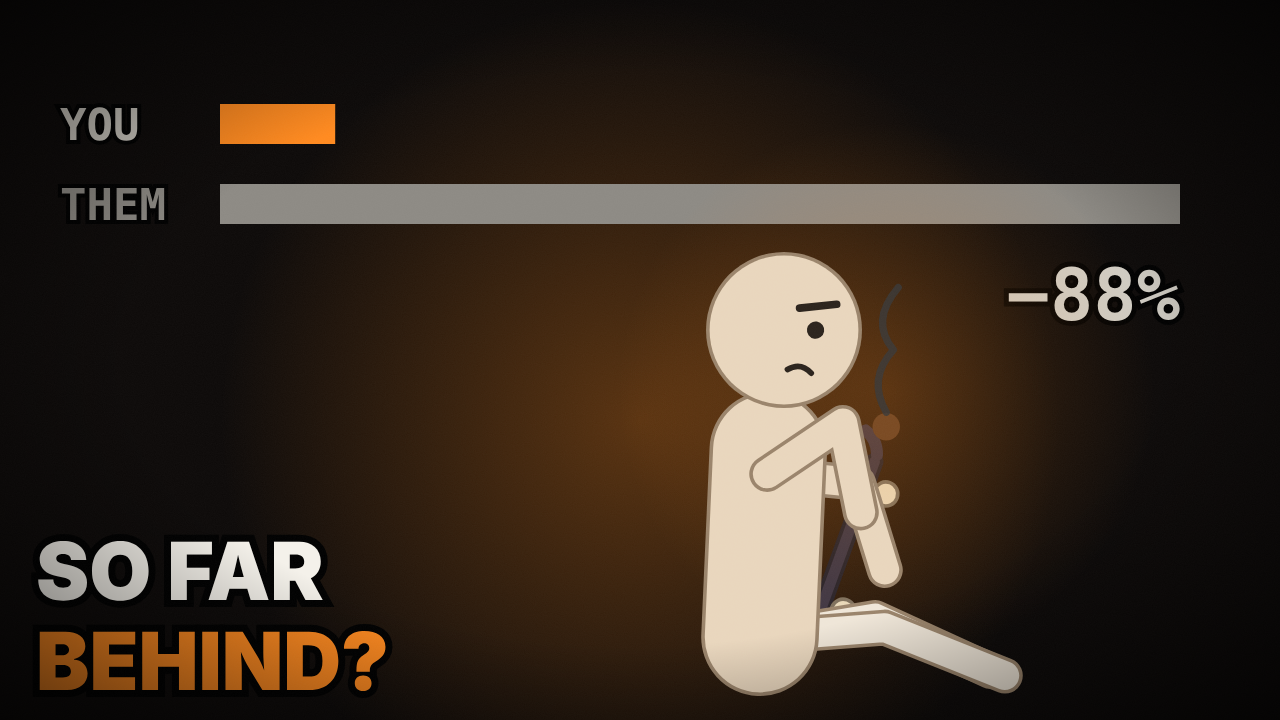
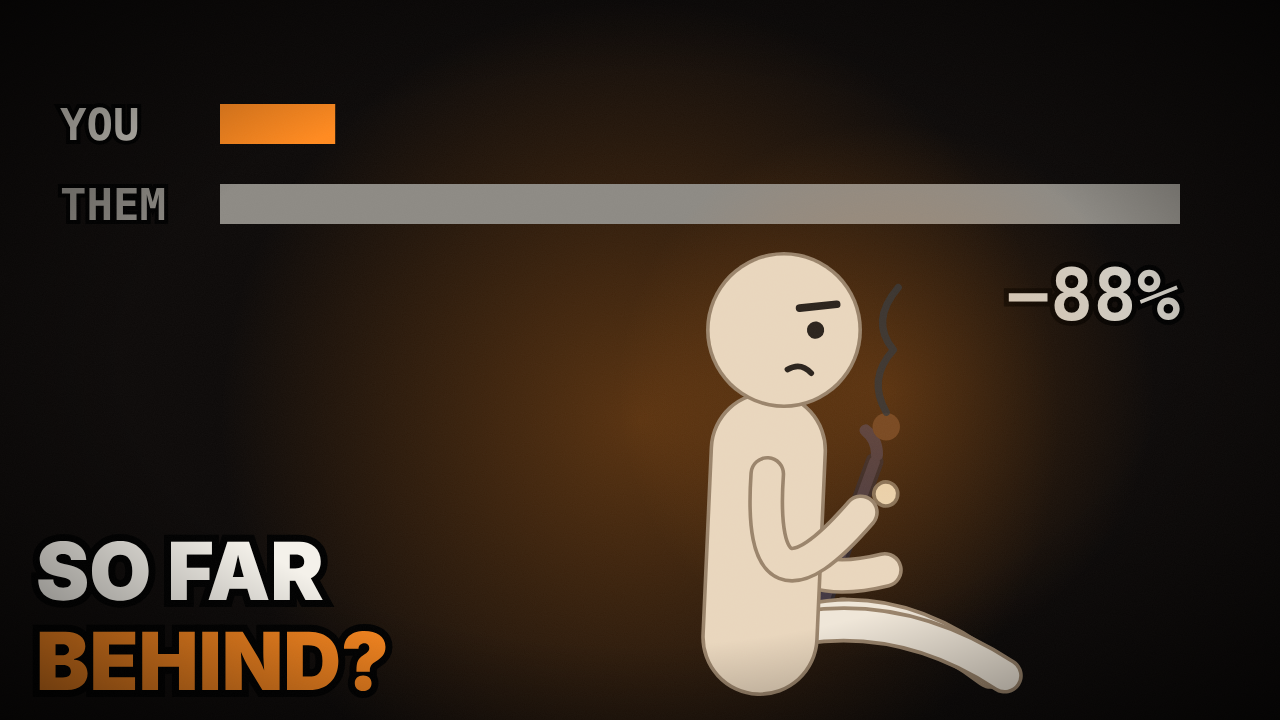
COMPARE v2: tay chân cong mềm, nền công viên chi tiết, nhân vật nhỏ đi 20%
Claude-Session: https://claude.ai/code/session_01D563dT2ZpFvoT58NnMU5yo

Changed region(s): [[0.5625, 0.55, 0.7812, 0.9472]]

diff --git a/docs/day-one-films/video-compare/scene.js b/docs/day-one-films/video-compare/scene.js
@@ -91,7 +91,8 @@
     if (d > 2 * ARM - 1) { d = 2 * ARM - 1; h = [s[0] + u[0] * d, s[1] + u[1] * d]; }
     const a = d / 2, hh = Math.sqrt(Math.max(0, ARM * ARM - a * a)), b = [s[0] + u[0] * a, s[1] + u[1] * a], n = [-u[1], u[0]];
     const e1 = [b[0] + n[0] * hh, b[1] + n[1] * hh], e2 = [b[0] - n[0] * hh, b[1] - n[1] * hh];
-    const e = Math.hypot(e1[0] - hint[0], e1[1] - hint[1]) <= Math.hypot(e2[0] - hint[0], e2[1] - hint[1]) ? e1 : e2;
+    // tay giơ cao: theo khuỷu gợi ý; còn lại khuỷu luôn bẻ xuống dưới → chuyển động nhanh không bị lật khuỷu
+    const e = h[1] < s[1] - 20 ? (Math.hypot(e1[0] - hint[0], e1[1] - hint[1]) <= Math.hypot(e2[0] - hint[0], e2[1] - hint[1]) ? e1 : e2) : (e1[1] >= e2[1] ? e1 : e2);
     return [e, h];
   }
   function fixArms(J) {
@@ -101,12 +102,17 @@
     return J;
   }
   // thân + tay chân; fill/line = màu ruột/viền, e = độ dày viền
+  // tay/chân: đường cong bậc hai đi đúng qua khớp giữa (khuỷu/gối) → mềm, không gãy khúc
+  function limb([a, m, b], w, c) {
+    const C = [2 * m[0] - (a[0] + b[0]) / 2, 2 * m[1] - (a[1] + b[1]) / 2];
+    return `<path d="M${a[0]},${a[1]} Q${C[0]},${C[1]} ${b[0]},${b[1]}" fill="none" stroke="${c}" stroke-width="${w}" stroke-linecap="round"/>`;
+  }
   function bodyShapes(J, fill, line, e, legFill) {
     fixArms(J);
     const u = unitv(J.neck, J.hip);
     const top = addv(J.neck, u, 12), bot = J.hip;
     const L = (p, q, w, c) => `<line x1="${p[0]}" y1="${p[1]}" x2="${q[0]}" y2="${q[1]}" stroke="${c}" stroke-width="${w}" stroke-linecap="round"/>`;
-    const PL = (pts, w, c) => `<polyline points="${pts.map(p => p.join(',')).join(' ')}" fill="none" stroke="${c}" stroke-width="${w}" stroke-linecap="round" stroke-linejoin="round"/>`;
+    const PL = (pts, w, c) => limb(pts, w, c);
     const sh = addv(J.neck, u, 22);
     let s = '';
     // chân (sau thân)
@@ -343,8 +349,8 @@
   const gpt = (cx, cy, ang, lx, k = 1) => [cx + Math.cos(ang * Math.PI / 180) * lx * k, cy + Math.sin(ang * Math.PI / 180) * lx * k];
   // tay trước vẽ lại đè lên đạo cụ; chấm bàn tay sau đè lên cần đàn
   function frontArm(J, fill = SKIN) {
-    const u = unitv(J.neck, J.hip), sh = addv(J.neck, u, 22), pts = [sh, J.le, J.lh].map(p => p.join(',')).join(' ');
-    return `<polyline points="${pts}" fill="none" stroke="${SKIN_LINE}" stroke-width="15" stroke-linecap="round" stroke-linejoin="round"/><polyline points="${pts}" fill="none" stroke="${fill}" stroke-width="12" stroke-linecap="round" stroke-linejoin="round"/>`;
+    const u = unitv(J.neck, J.hip), sh = addv(J.neck, u, 22);
+    return limb([sh, J.le, J.lh], 15, SKIN_LINE) + limb([sh, J.le, J.lh], 12, fill);
   }
   const handDot = (p, fill = SKIN) => `<circle cx="${p[0]}" cy="${p[1]}" r="7.5" fill="${fill}" stroke="${SKIN_LINE}" stroke-width="2"/>`;
   const bandage = p => `<rect x="${p[0] - 6}" y="${p[1] - 4}" width="12" height="7" rx="2" fill="#f4efe4" stroke="#b9ab98" stroke-width="1" transform="rotate(-20 ${p[0]} ${p[1]})"/>`;
@@ -444,7 +450,8 @@
     return `<g transform="rotate(${ang} ${x} ${y})">` + skateboard(x, y) + fig(J, { flame: o.flame, t: o.t, mood: o.mood, c: o.c, blink: o.blink }) + (o.extra ? o.extra(J) : '') + '</g>';
   }
   // dốc nhảy (kicker): chân dốc x0, đỉnh x1 cao h
-  const kicker = (x0, x1, h, g = 560) => `<path d="M${x0},${g} Q${(x0 + x1) / 2 + 10},${g - h * 0.25} ${x1},${g - h} L${x1 + 10},${g - h} L${x1 + 10},${g}Z" fill="${CONC}" stroke="${CONC2}" stroke-width="3"/>` + ln([x1, g - h], [x1 + 12, g - h], '#8a8a96', 4);
+  const kicker = (x0, x1, h, g = 560) => `<ellipse cx="${(x0 + x1) / 2 + 10}" cy="${g + 4}" rx="${(x1 - x0) / 2 + 30}" ry="6" fill="#000" opacity=".3"/>` +
+    `<path d="M${x0},${g} Q${(x0 + x1) / 2 + 10},${g - h * 0.25} ${x1},${g - h} L${x1 + 14},${g - h} L${x1 + 14},${g}Z" fill="url(#rampP)" stroke="${CONC2}" stroke-width="3"/>` + `<rect x="${x1}" y="${g - h}" width="14" height="${h}" fill="#34343c"/>` + ln([x1 - 4, g - h], [x1 + 14, g - h], '#c8c8d4', 4);
   // quỹ đạo người bay qua dốc lớn (x0 780 → đỉnh 860 cao 70 → đáp 1150)
   let KX = 780, FX0 = 580; // vị trí dốc lớn · điểm người trượt bắt đầu hiện
   function flyPath(u) {
@@ -462,14 +469,46 @@
     return s;
   }
   const FLY_FLAME = (t, i, n = 3, sp = 0.22) => { const [x, y, a] = flyPath((t * sp + i / n + 0.15) % 1); const J = riderPose(x, y); return [x + (flamePos(J)[0] - x), flamePos(J)[1]]; };
+  // ---------- công viên trượt ván (nền chi tiết) ----------
   function park(t, o = {}) {
-    let s = `<defs><linearGradient id="skyP" x1="0" y1="0" x2="0" y2="1"><stop offset="0" stop-color="${o.dawn ? '#2a2a44' : '#2a1a2e'}"/><stop offset=".7" stop-color="${o.dawn ? '#c88a6a' : '#b8603a'}"/><stop offset="1" stop-color="${o.dawn ? '#f0c890' : '#f0a860'}"/></linearGradient></defs>`;
-    s += `<rect x="-400" y="-200" width="2200" height="770" fill="url(#skyP)"/>` + glow(o.dawn ? 300 : 1000, 480, 300, 0.4);
-    for (let i = 0; i < 12; i++) { const bx = -200 + i * 150, bh = 60 + 90 * rnd(i + 11); s += `<rect x="${bx}" y="${560 - bh}" width="120" height="${bh}" fill="#2a1e26" opacity=".7"/>`; }
-    s += `<rect x="-400" y="560" width="2200" height="300" fill="#2c2c32"/>` + ln([-400, 560], [1800, 560], '#55555e', 3);
-    for (let i = 0; i < 10; i++) s += ln([-200 + i * 180, 600], [-120 + i * 180, 600], '#3a3a42', 2);
+    const dawn = !!o.dawn;
+    let s = `<defs><linearGradient id="skyP" x1="0" y1="0" x2="0" y2="1"><stop offset="0" stop-color="${dawn ? '#232848' : '#241630'}"/><stop offset=".55" stop-color="${dawn ? '#8a6a7a' : '#9a4a3a'}"/><stop offset=".85" stop-color="${dawn ? '#e0a880' : '#e8904a'}"/><stop offset="1" stop-color="${dawn ? '#f4cc98' : '#f4b468'}"/></linearGradient>` +
+      `<linearGradient id="concP" x1="0" y1="0" x2="0" y2="1"><stop offset="0" stop-color="#3a3840"/><stop offset="1" stop-color="#232228"/></linearGradient>` +
+      `<linearGradient id="rampP" x1="0" y1="0" x2="0" y2="1"><stop offset="0" stop-color="#6a6a74"/><stop offset="1" stop-color="#44444c"/></linearGradient></defs>`;
+    s += `<rect x="-600" y="-400" width="2600" height="980" fill="url(#skyP)"/>`;
+    const sx = dawn ? 180 : 1040;
+    s += glow(sx, 470, 380, 0.5) + `<circle cx="${sx}" cy="470" r="46" fill="${dawn ? '#ffe2b0' : '#ffd29a'}" opacity=".95"/>`;
+    // mây trôi chậm
+    for (let i = 0; i < 6; i++) { const cx = ((i * 330 + t * 6) % 2200) - 500, cy = 80 + 60 * rnd(i + 2); s += `<g opacity=".35" fill="${dawn ? '#f0c8b0' : '#f0a070'}"><ellipse cx="${cx}" cy="${cy}" rx="${90 + 40 * rnd(i)}" ry="16"/><ellipse cx="${cx + 50}" cy="${cy - 10}" rx="60" ry="14"/></g>`; }
+    // phố xa: nhà cao, cửa sổ sáng đèn
+    for (let i = 0; i < 16; i++) {
+      const bx = -520 + i * 150 + 30 * rnd(i), bw = 90 + 50 * rnd(i + 4), bh = 110 + 170 * rnd(i + 11);
+      s += `<rect x="${bx}" y="${470 - bh}" width="${bw}" height="${bh + 20}" fill="#2a1c2a" opacity=".85"/>`;
+      for (let r = 0; r < Math.floor(bh / 26); r++) for (let c = 0; c < Math.floor(bw / 22); c++) if (rnd(i * 97 + r * 13 + c) > 0.62) s += `<rect x="${bx + 8 + c * 22}" y="${470 - bh + 12 + r * 26}" width="9" height="11" fill="#f2b468" opacity="${0.45 + 0.4 * rnd(r + c + i)}"/>`;
+    }
+    // hàng cây
+    for (let i = 0; i < 14; i++) { const tx = -500 + i * 180 + 40 * rnd(i + 30), th = 60 + 30 * rnd(i + 31); s += `<rect x="${tx - 4}" y="${520 - th * 0.4}" width="8" height="${th * 0.4 + 30}" fill="#1e1a1c"/><ellipse cx="${tx}" cy="${520 - th * 0.55}" rx="${36 + 12 * rnd(i)}" ry="${th * 0.45}" fill="#24221e"/>`; }
+    // hàng rào lưới
+    s += `<g opacity=".55">` + ln([-600, 470], [2000, 470], '#5a5a62', 3);
+    for (let x = -600; x < 2000; x += 120) s += ln([x, 470], [x, 552], '#5a5a62', 3);
+    for (let x = -600; x < 2000; x += 14) s += ln([x, 472], [x + 40, 550], '#4a4a52', 0.8) + ln([x + 40, 472], [x, 550], '#4a4a52', 0.8);
+    s += '</g>';
+    // tường graffiti (không dùng đỏ/vàng)
+    s += `<rect x="40" y="430" width="380" height="130" fill="#4a4650"/>` + ln([40, 430], [420, 430], '#6a6670', 4);
+    s += `<path d="M70,520 q30,-60 70,-20 q40,40 80,-30 q30,-40 70,10" fill="none" stroke="#3fb8b0" stroke-width="14" stroke-linecap="round"/><path d="M90,540 q60,-30 120,0 t120,-10" fill="none" stroke="#8a6ad8" stroke-width="10" stroke-linecap="round"/>`;
+    s += `<text x="230" y="505" fill="#e8f0ff" stroke="#3b6bd6" stroke-width="4" paint-order="stroke" font-family="Inter" font-size="46" font-weight="900" font-style="italic" text-anchor="middle" transform="rotate(-6 230 505)">SK8</text>`;
+    // cột đèn
+    for (const lx of [-260, 620, 1380]) s += ln([lx, 560], [lx, 380], '#2a2a30', 6) + ln([lx, 382], [lx + 34, 382], '#2a2a30', 5) + `<rect x="${lx + 26}" y="380" width="20" height="8" rx="3" fill="#ffe2b0"/>` + glow(lx + 36, 392, 70, dawn ? 0.15 : 0.35);
+    // sàn bê tông: tấm, khe, vết nứt
+    s += `<rect x="-600" y="560" width="2600" height="360" fill="url(#concP)"/>` + ln([-600, 560], [2000, 560], '#6a6a72', 3);
+    for (let x = -600; x < 2000; x += 160) s += ln([x, 562], [x - 60, 760], '#1c1c22', 2);
+    s += ln([-600, 640], [2000, 640], '#1c1c22', 1.5);
+    for (let i = 0; i < 8; i++) { const cx = -300 + i * 260 + 60 * rnd(i + 50); s += `<path d="M${cx},${600 + 20 * rnd(i)} l14,6 l-6,10 l16,8" fill="none" stroke="#18181c" stroke-width="1.5"/>`; }
+    // thanh trượt + ghế (nền sau)
+    s += ln([1180, 532], [1360, 532], '#9a9aa6', 5) + ln([1196, 532], [1196, 560], '#6a6a74', 4) + ln([1344, 532], [1344, 560], '#6a6a74', 4);
+    s += `<rect x="-120" y="530" width="120" height="10" rx="3" fill="#6a4a30"/>` + ln([-110, 540], [-110, 560], '#3a2a20', 4) + ln([-10, 540], [-10, 560], '#3a2a20', 4);
     if (o.big !== false) s += kicker(KX, KX + 80, 70);
-    if (o.small) s += `<path d="M${o.small - 70},560 L${o.small - 70},520 L${o.small},520 Q${o.small + 30},525 ${o.small + 60},560Z" fill="${CONC}" stroke="${CONC2}" stroke-width="3"/>` + ln([o.small - 70, 520], [o.small, 520], '#8a8a96', 4);
+    if (o.small) s += `<path d="M${o.small - 70},560 L${o.small - 70},520 L${o.small},520 Q${o.small + 30},525 ${o.small + 60},560Z" fill="url(#rampP)" stroke="${CONC2}" stroke-width="3"/>` + ln([o.small - 70, 520], [o.small + 2, 520], '#c8c8d4', 4) + `<rect x="${o.small - 70}" y="520" width="8" height="40" fill="#34343c"/>`;
     return s;
   }
   // thước dây: hộp + dây; enemy = đen vạch đỏ · mine = vàng (của Spark)
@@ -858,7 +897,9 @@
       const push = sc.nopush ? 1 : 1 + 0.08 * clamp((t - sc.a) / (sc.b - sc.a)); // camera không bao giờ ngủ
       let sx = 0, sy = 0;
       for (const [ts, dur, amp] of SHAKES) if (t >= ts && t < ts + dur) { const e = 1 - (t - ts) / dur; sx += Math.sin(t * 97) * amp * e; sy += Math.cos(t * 83) * amp * e; }
-      CAM = { x: c0.x + sx / (c0.k * push), y: c0.y + sy / (c0.k * push), k: c0.k * push };
+      const ZOOM = 0.8; // nhân vật hiển thị nhỏ đi 20%, mặt đất giữ nguyên chỗ trên màn hình
+      const cy = 560 - (560 - c0.y) / ZOOM;
+      CAM = { x: c0.x + sx / (c0.k * ZOOM * push), y: cy + sy / (c0.k * ZOOM * push), k: c0.k * ZOOM * push };
       body += `<g opacity="${o}"><g transform="translate(640,360) scale(${CAM.k}) translate(${-CAM.x},${-CAM.y})">${sc.fn(t)}</g></g>`;
     }
     body += whispers(t);

diff --git a/docs/day-one-films/video-compare/story.md b/docs/day-one-films/video-compare/story.md
@@ -1,4 +1,15 @@
-# COMPARE | An Animated Short Film: kế hoạch (chờ DUYỆT 1 + 2)
+# COMPARE | An Animated Short Film: kế hoạch (đã DUYỆT 1 + 2, chọn A)
+
+**v2 (sửa theo DUYỆT 3):**
+1. Tay chân là đường cong mềm đi qua khuỷu và gối, không còn gãy khúc. Khuỷu luôn bẻ một hướng cố định, nên khi tay chuyển động nhanh không bị lật.
+2. Nền công viên trượt ván làm chi tiết:
+   - bầu trời có mây, mặt trời;
+   - phố xa có cửa sổ sáng đèn, hàng cây, hàng rào lưới;
+   - tường graffiti "SK8", cột đèn;
+   - sàn bê tông có khe và vết nứt;
+   - thanh trượt, ghế, dốc có mép kim loại và đổ bóng.
+3. Nhân vật hiển thị nhỏ đi 20% (thu camera, giữ nguyên đường mặt đất).
+
 
 Kênh Keep The Fire · phim 04 · dự kiến 2:40 · không lời dẫn.
 
